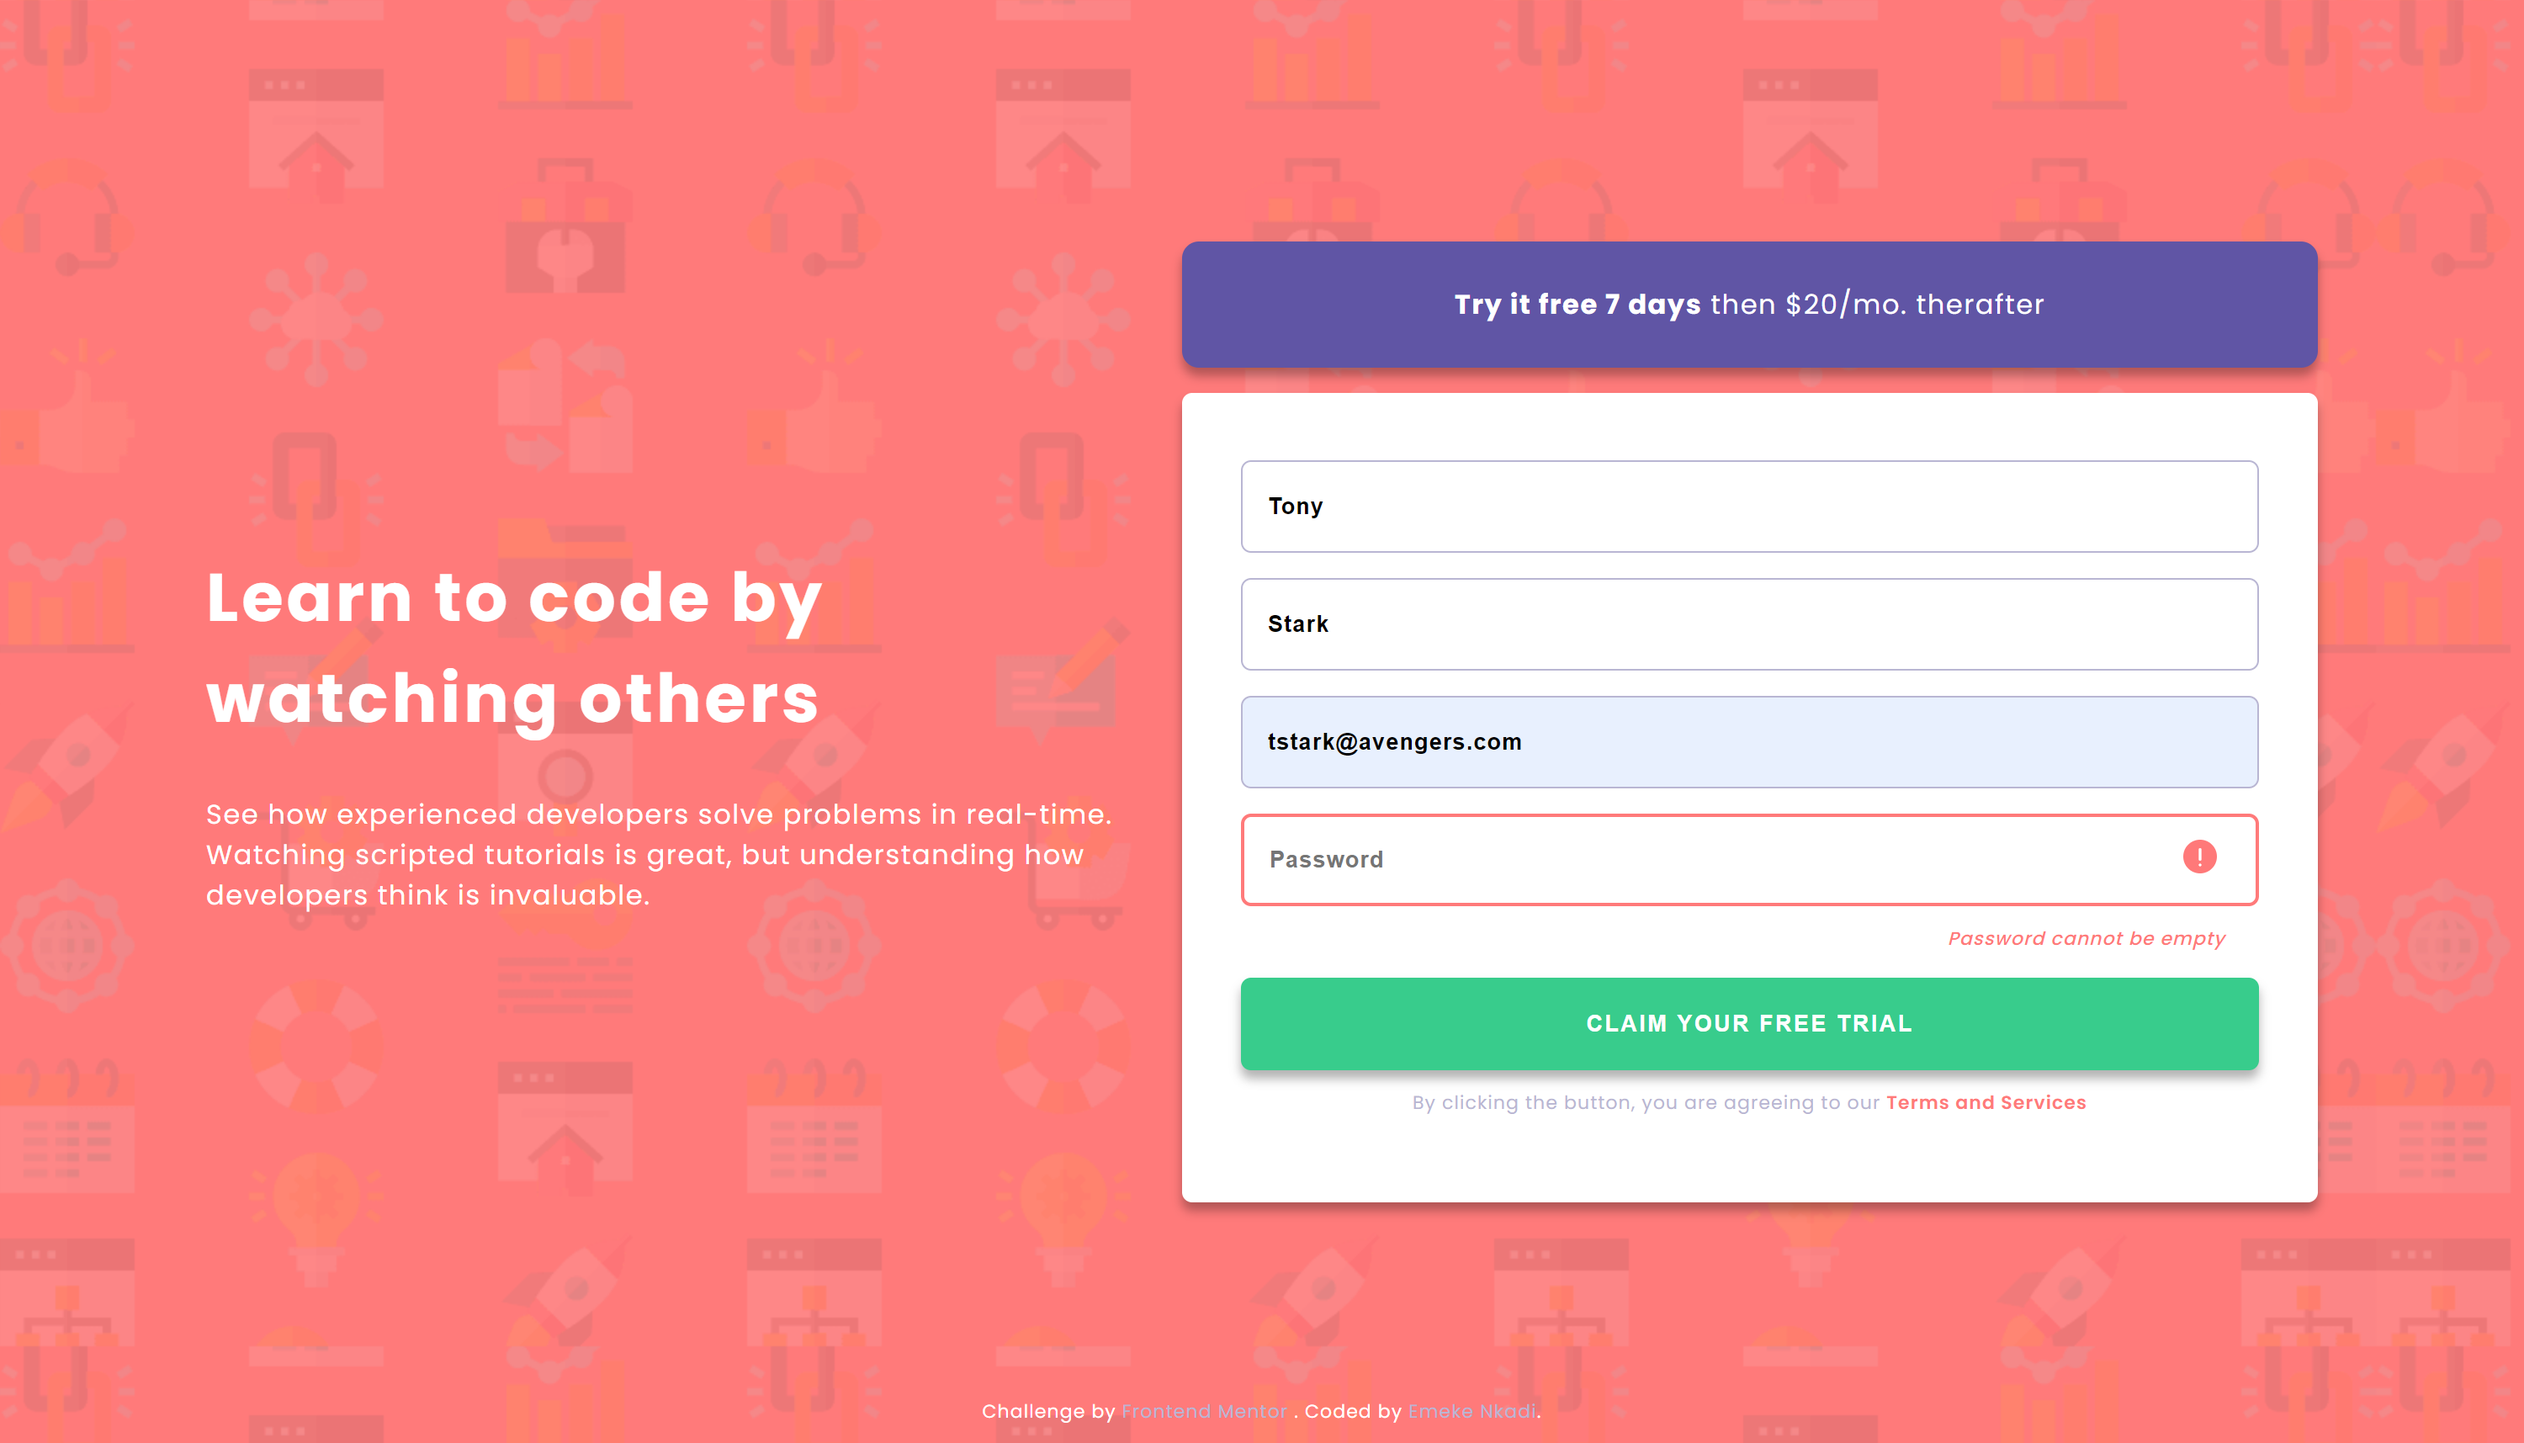
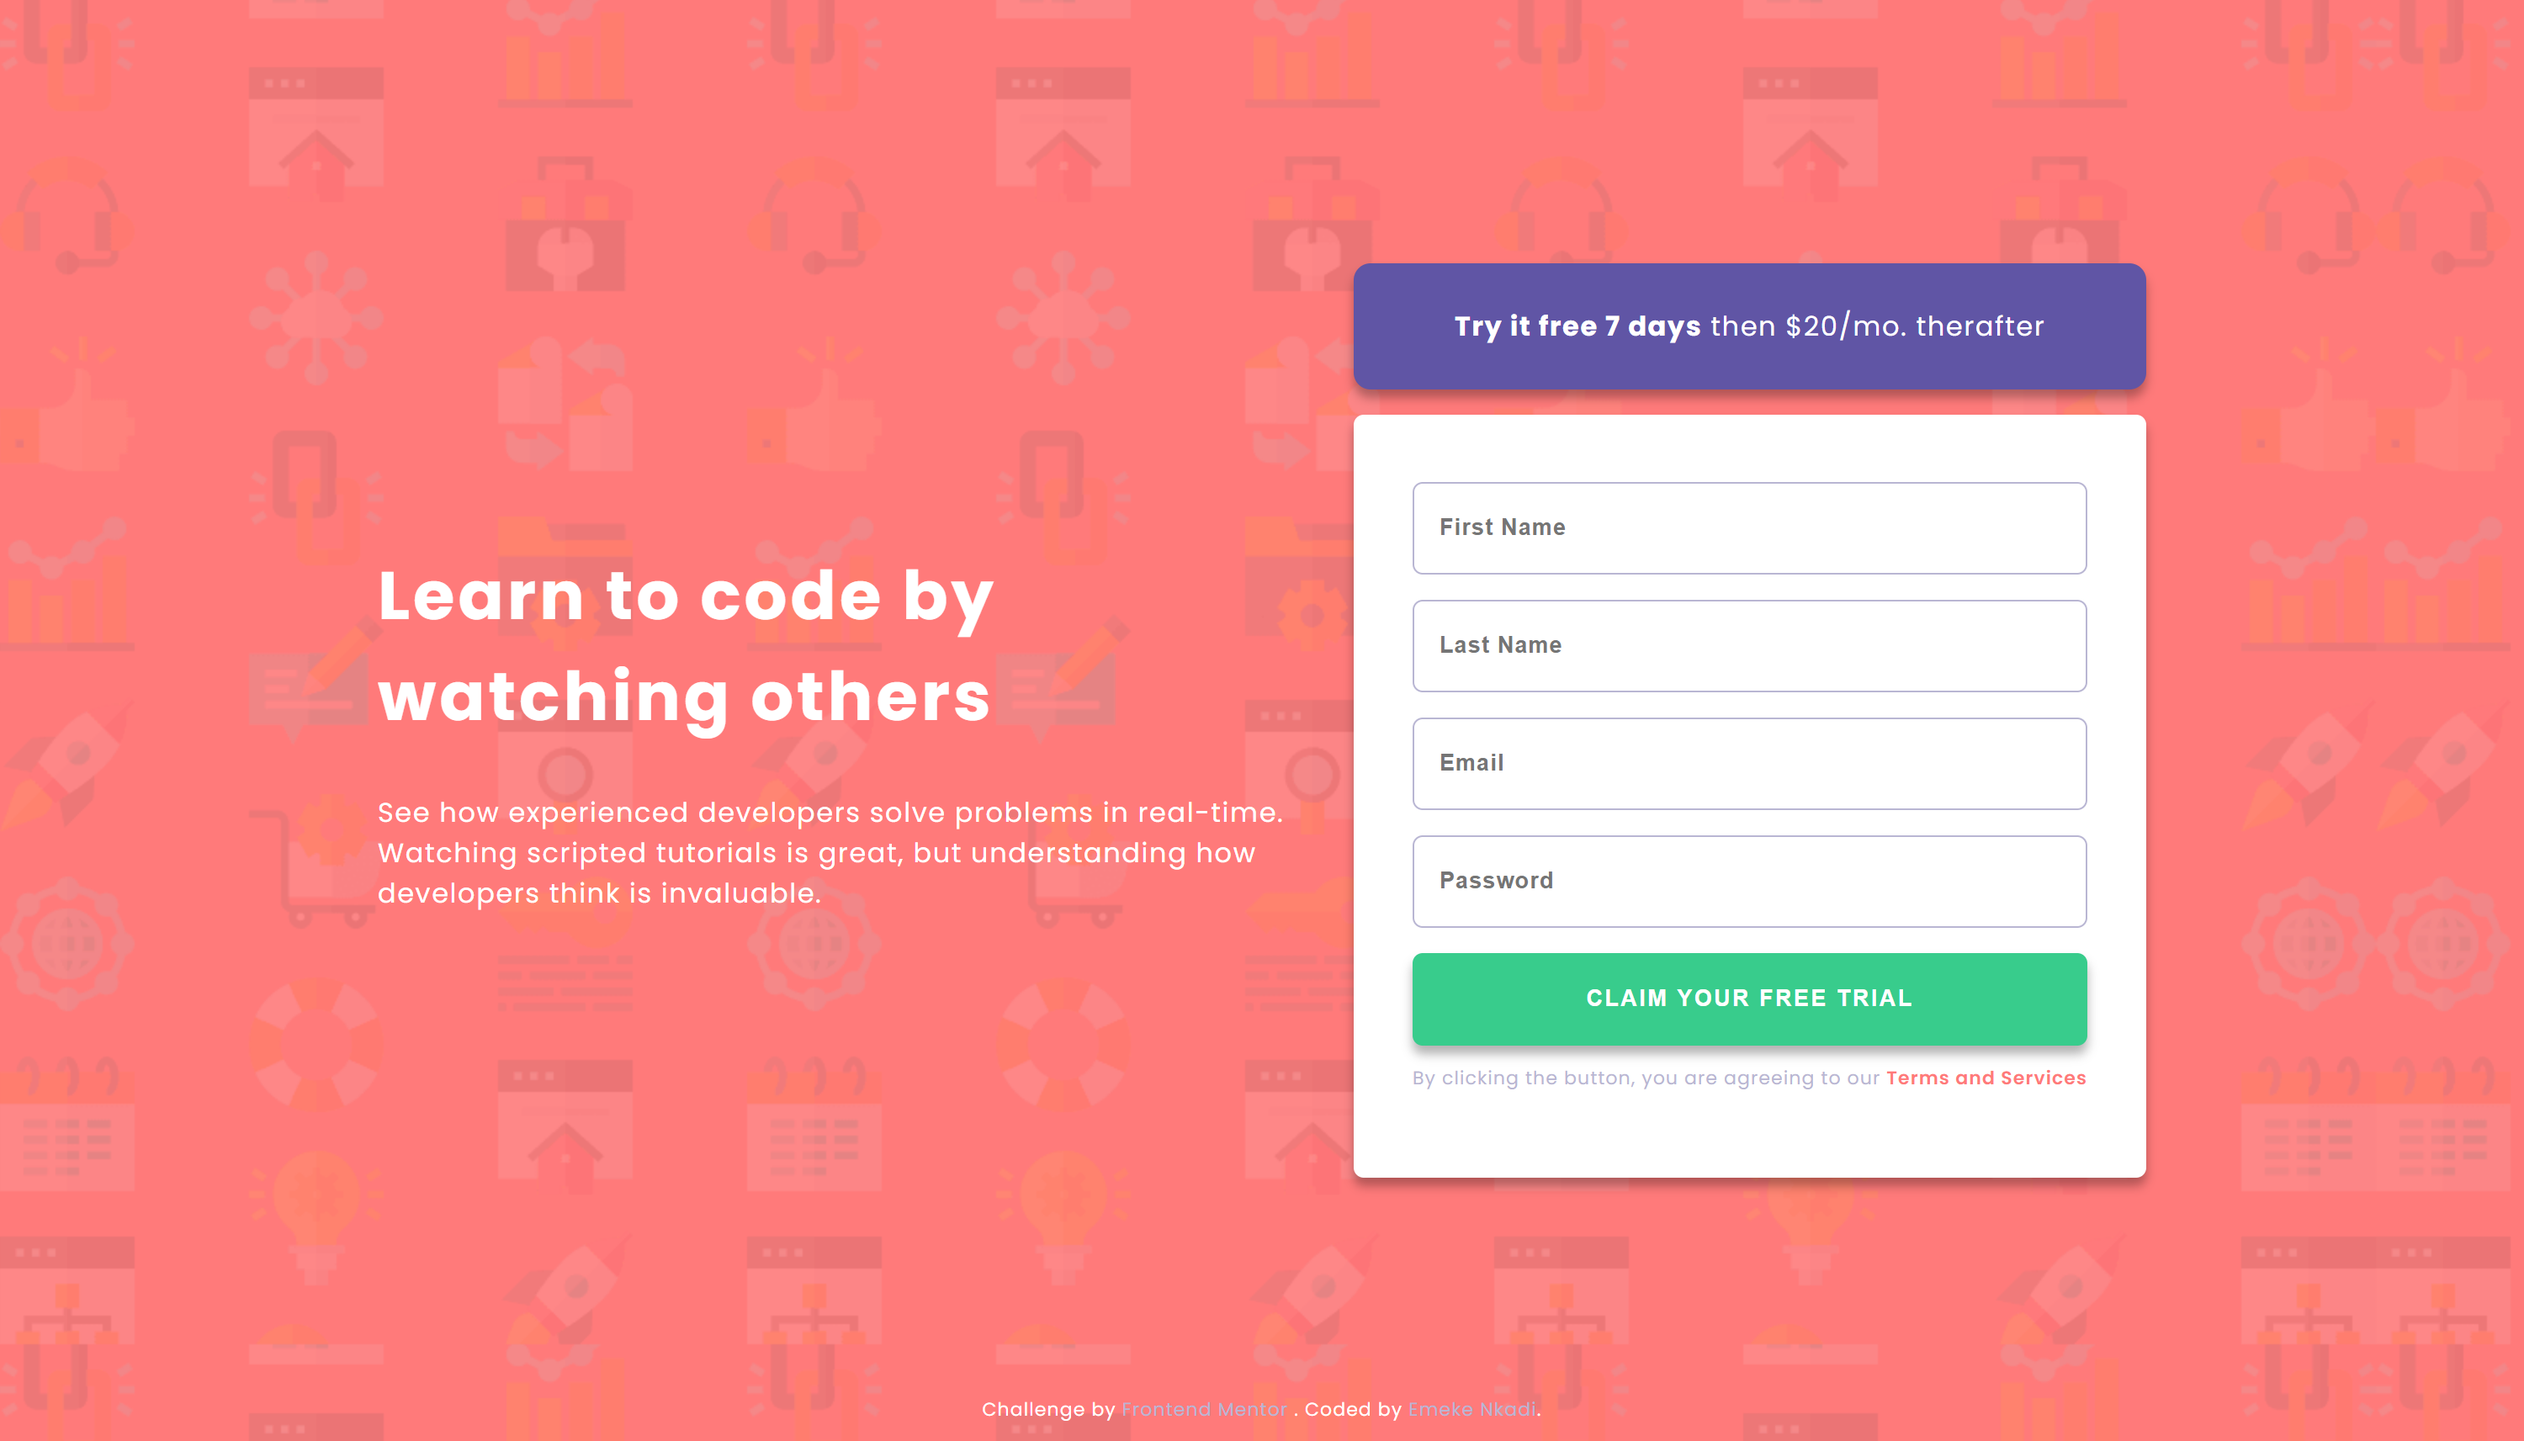
fix form width

Changed region(s): [[0.093, 0.1547, 0.93, 0.8663], [0.062, 0.4641, 0.403, 0.526], [0.062, 0.4022, 0.403, 0.4332]]

diff --git a/src/App.scss b/src/App.scss
@@ -23,7 +23,7 @@
   }
 
   .signup-container {
-    width: 50%;
+    // width: 50%;
 
     .heading {
       background-color: base.$blue;
@@ -58,14 +58,19 @@
     margin: 0;
 
     .above-fold {
-      width: 80%;
+      width: 65%;
       margin: 25px 0;
+
+      h1 {
+        letter-spacing: normal;
+      }
     }
 
     .signup-container {
-      width: 80%;
+      margin: 0 5vw;
       .heading {
         height: 75px;
+        margin-bottom: 25px;
       }
     }
   }

diff --git a/src/Footer/Footer.js b/src/Footer/Footer.js
@@ -9,7 +9,7 @@ export default function Footer() {
         <a href="https://www.frontendmentor.io/profile/EmekeN" target="_blank" rel="noopener noreferrer">
            Frontend Mentor{" "}
         </a>
-        . Coded by <a href="https://www.linkedin.com/in/emeke-nkadi-4a738790/">Emeke Nkadi</a>.
+        . Coded by <a href="https://github.com/EmekeN/sign-up-form">Emeke Nkadi</a>.
       </p>
     </footer>
   );

diff --git a/src/base.scss b/src/base.scss
@@ -14,9 +14,12 @@ $box-min-width: 275px;
   box-shadow: 0px 5px 6px 0px rgba(0, 0, 0, 0.3);
 }
 
-* {
-  letter-spacing: 0.05em;
+html {
   box-sizing: border-box;
+}
+*, *:before, *:after {
+  box-sizing: inherit;
+  letter-spacing: 0.05em;
 }
 
 div {
